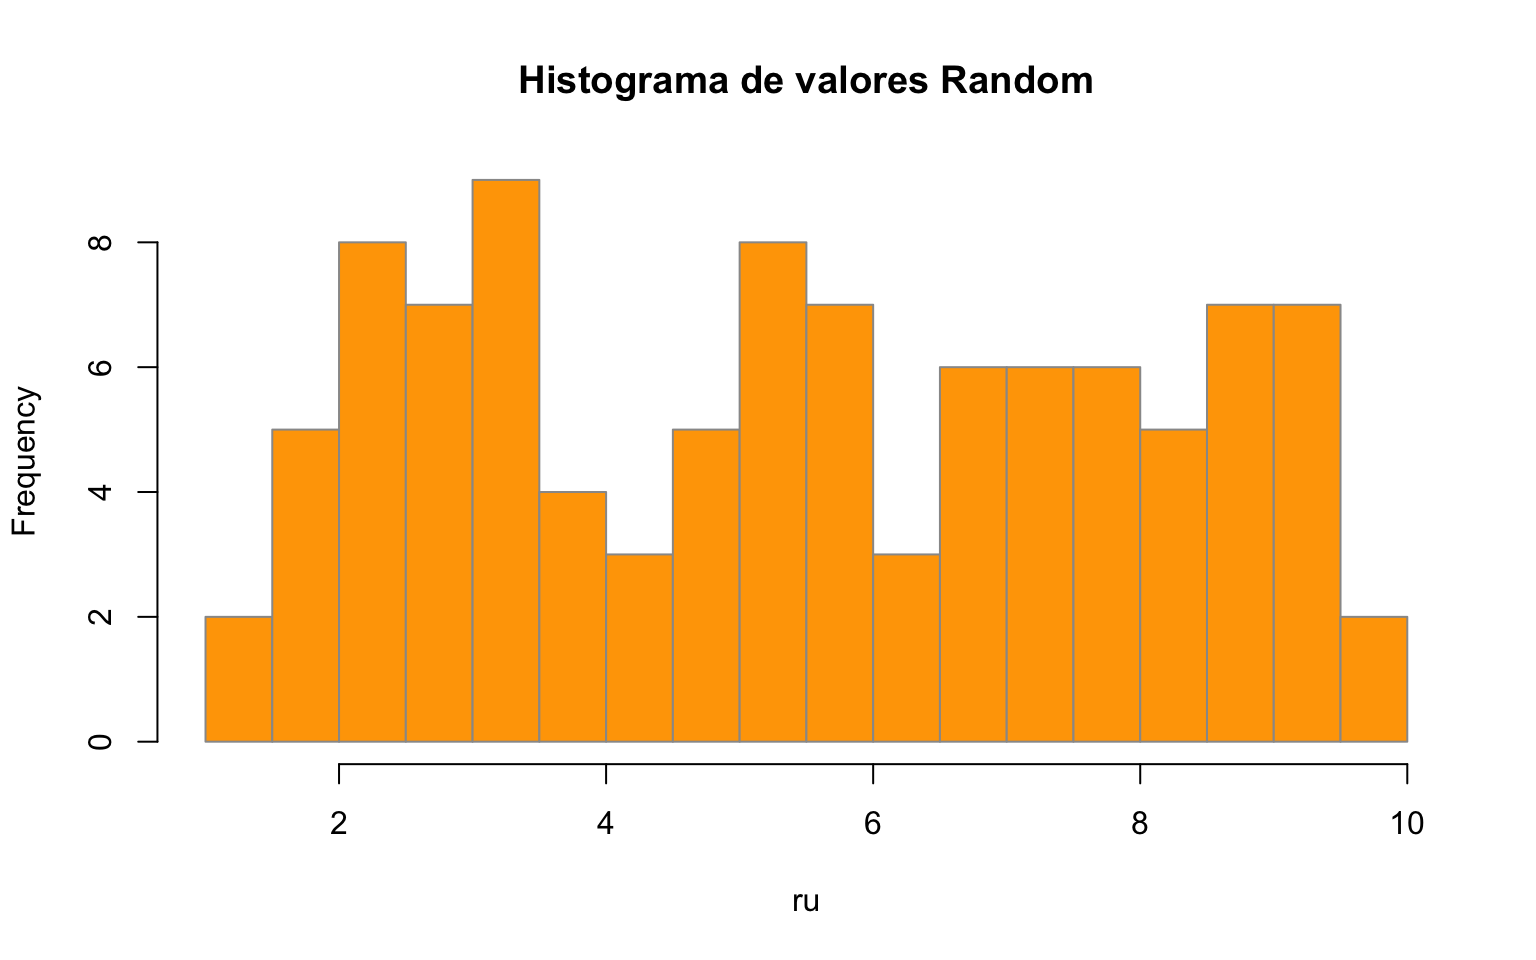
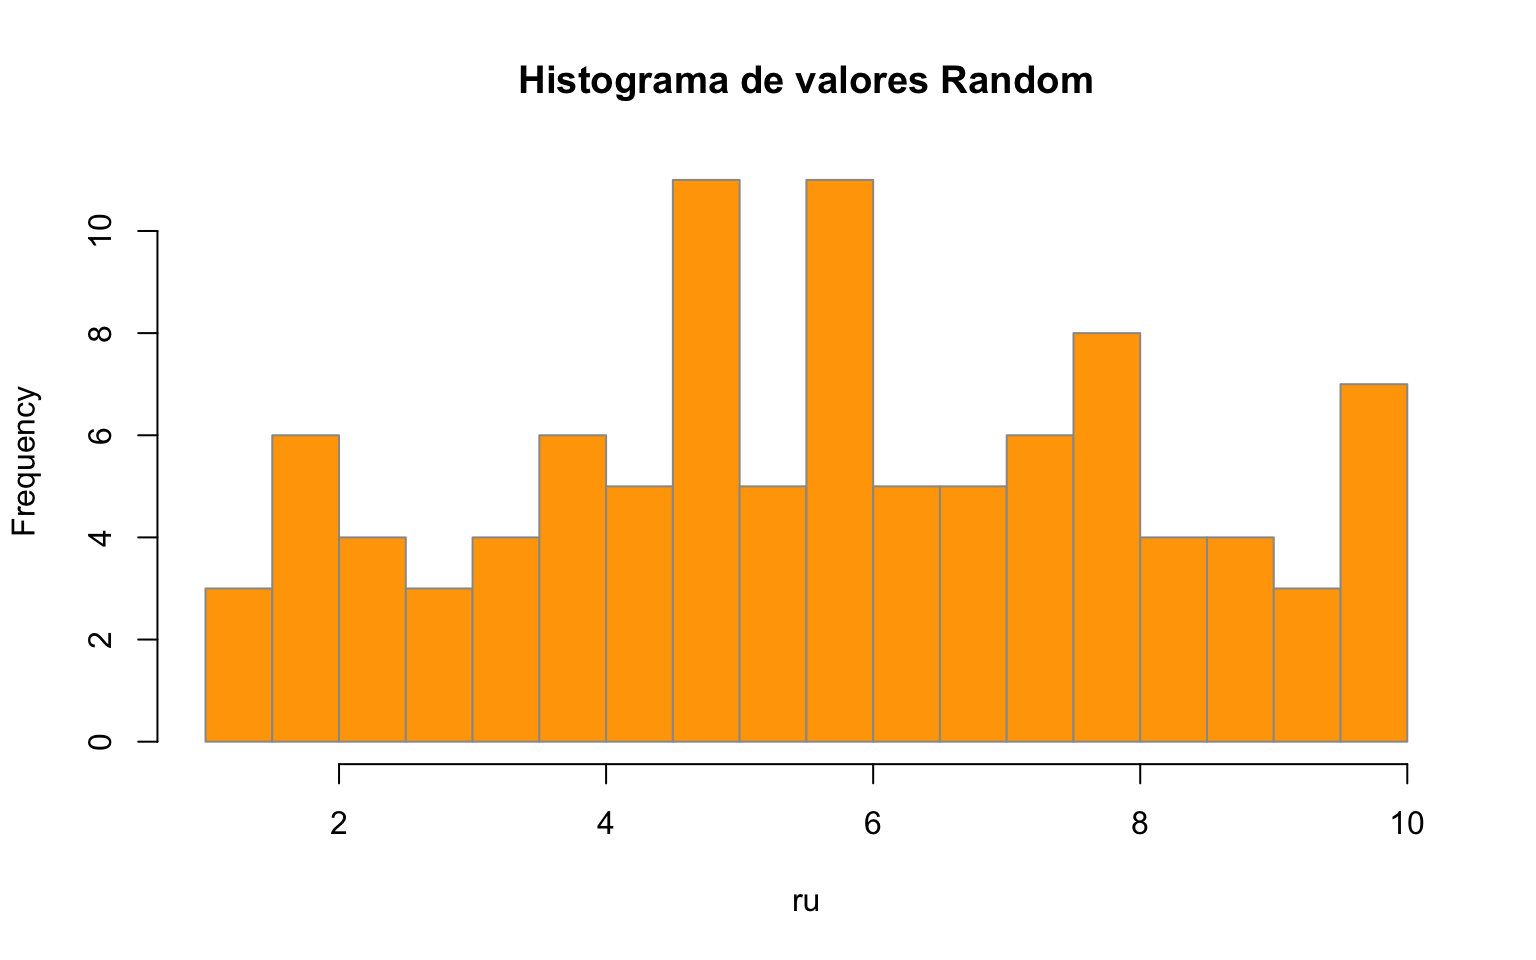
Built site for gh-pages

diff --git a/r_project.html b/r_project.html
@@ -559,19 +559,19 @@ code span.wa { color: #60a0b0; font-weight: bold; font-style: italic; } /* Warni
 <div class="sourceCode cell-code" id="cb11"><pre class="sourceCode r code-with-copy"><code class="sourceCode r"><span id="cb11-1"><a href="#cb11-1" aria-hidden="true" tabindex="-1"></a>ru <span class="ot">&lt;-</span> <span class="fu">runif</span>(<span class="at">n =</span> <span class="dv">100</span>, <span class="at">min =</span> <span class="dv">1</span>, <span class="at">max =</span> <span class="dv">10</span>)</span>
 <span id="cb11-2"><a href="#cb11-2" aria-hidden="true" tabindex="-1"></a>ru</span></code><button title="Copy to Clipboard" class="code-copy-button"><i class="bi"></i></button></pre></div>
 <div class="cell-output cell-output-stdout">
-<pre><code>  [1] 2.734509 8.890751 9.946318 4.705708 6.941183 4.822620 7.500175 7.867557
-  [9] 7.341138 6.696716 7.064383 9.444162 4.603730 3.185298 6.828166 3.066906
- [17] 3.743531 8.510762 6.690119 9.232757 5.333774 4.649798 2.295700 3.265825
- [25] 1.542848 9.505277 1.015939 2.634020 5.185485 8.341810 2.893615 2.738504
- [33] 7.015717 1.728331 9.204278 9.305483 3.117092 5.027090 4.464247 8.823425
- [41] 2.091900 3.242419 2.175398 8.046107 5.625957 7.875466 2.997257 5.064028
- [49] 1.700190 8.819081 7.559677 9.306359 3.160376 1.432525 2.954868 2.415233
- [57] 7.858856 6.267120 3.966494 2.389541 8.453869 3.152249 7.152445 6.589068
- [65] 8.629946 8.545178 3.085000 4.458933 9.277898 5.665957 6.078743 2.180593
- [73] 8.199088 6.419430 8.180573 5.378118 5.223127 1.627984 5.892186 5.878844
- [81] 5.998031 5.043063 7.400317 3.568636 5.739560 3.658262 7.010542 7.905490
- [89] 2.911050 4.222335 6.986220 8.630364 2.064318 5.256333 3.071967 4.570265
- [97] 9.137086 1.612622 5.770856 2.451970</code></pre>
+<pre><code>  [1] 8.811635 5.865857 7.391644 6.067594 8.743696 2.647396 4.774295 5.429959
+  [9] 2.377287 9.616988 6.926653 5.797022 6.847562 4.887095 2.296216 5.664446
+ [17] 3.693184 1.481783 1.782443 4.875136 4.071239 7.915234 5.359341 7.759767
+ [25] 2.491318 3.968461 1.539798 3.454462 9.794368 5.666611 6.746138 7.188359
+ [33] 1.009968 5.630455 4.734392 6.478983 9.304819 1.250389 4.830220 7.835755
+ [41] 4.578957 8.292712 7.661948 3.560957 4.669029 5.583798 9.164878 8.117981
+ [49] 4.156663 6.518603 8.165289 5.485007 7.260296 6.108508 5.710161 7.110792
+ [57] 4.972461 5.511515 4.167841 4.565459 8.803359 1.824712 7.328237 7.449306
+ [65] 2.143007 5.991730 5.987725 2.529145 2.906488 3.289845 5.300402 3.542934
+ [73] 9.636725 3.800062 5.258058 8.530075 5.807219 1.750988 8.122528 6.306378
+ [81] 9.309585 9.962509 3.290576 6.283876 7.987018 9.639122 1.919056 4.855011
+ [89] 7.955667 9.883614 4.880729 9.768686 7.781624 4.147312 6.825776 7.554872
+ [97] 4.043835 1.530621 3.836080 3.219795</code></pre>
 </div>
 </div>
 <div class="cell" data-layout-align="center">
@@ -590,7 +590,7 @@ code span.wa { color: #60a0b0; font-weight: bold; font-style: italic; } /* Warni
 <div class="cell">
 <div class="sourceCode cell-code" id="cb14"><pre class="sourceCode r code-with-copy"><code class="sourceCode r"><span id="cb14-1"><a href="#cb14-1" aria-hidden="true" tabindex="-1"></a><span class="fu">sample.int</span>(<span class="at">n =</span> <span class="dv">6</span>, <span class="at">size =</span> <span class="dv">10</span>, <span class="at">replace =</span> T)</span></code><button title="Copy to Clipboard" class="code-copy-button"><i class="bi"></i></button></pre></div>
 <div class="cell-output cell-output-stdout">
-<pre><code> [1] 6 6 6 2 2 3 6 2 1 3</code></pre>
+<pre><code> [1] 5 2 3 5 6 5 5 4 5 5</code></pre>
 </div>
 </div>
 </section>
@@ -1376,10 +1376,10 @@ h=<em>?</em>, a = 3, b = 4</p>
 <span id="cb152-6"><a href="#cb152-6" aria-hidden="true" tabindex="-1"></a>  <span class="fu">print</span>(promedio)</span>
 <span id="cb152-7"><a href="#cb152-7" aria-hidden="true" tabindex="-1"></a>}</span></code><button title="Copy to Clipboard" class="code-copy-button"><i class="bi"></i></button></pre></div>
 <div class="cell-output cell-output-stdout">
-<pre><code>[1] 0.849284
-[1] -0.5993989
-[1] -0.3552176
-[1] 0.2122577</code></pre>
+<pre><code>[1] 0.04650901
+[1] 0.145887
+[1] 0.2658215
+[1] 0.1797405</code></pre>
 </div>
 </div>
 </section>

diff --git a/datos.html b/datos.html
@@ -202,7 +202,10 @@ code span.wa { color: #60a0b0; font-weight: bold; font-style: italic; } /* Warni
    
   <ul>
   <li><a href="#cargar-librerías-y-funciones" id="toc-cargar-librerías-y-funciones" class="nav-link active" data-scroll-target="#cargar-librerías-y-funciones"><span class="toc-section-number">1.1</span>  Cargar Librerías y Funciones</a></li>
-  <li><a href="#lectura-de-datos" id="toc-lectura-de-datos" class="nav-link" data-scroll-target="#lectura-de-datos"><span class="toc-section-number">1.2</span>  Lectura de Datos</a></li>
+  <li><a href="#lectura-de-datos" id="toc-lectura-de-datos" class="nav-link" data-scroll-target="#lectura-de-datos"><span class="toc-section-number">1.2</span>  Lectura de Datos</a>
+  <ul class="collapse">
+  <li><a href="#unificar-bases" id="toc-unificar-bases" class="nav-link" data-scroll-target="#unificar-bases"><span class="toc-section-number">1.2.1</span>  Unificar Bases</a></li>
+  </ul></li>
   </ul>
 </nav>
     </div>
@@ -319,8 +322,20 @@ Projected CRS: WGS 84 / UTM zone 19S
 </div>
 </div>
 <p>Se puede observar que corresponde a <code>1.418.435</code> de casos policiales con información espacial tipo punto (<a href="https://r-spatial.github.io/sf/articles/sf1.html">Simple Features for R</a>), además información temporal y divisiones administrativas.</p>
+<section id="unificar-bases" class="level3" data-number="1.2.1">
+<h3 data-number="1.2.1" class="anchored" data-anchor-id="unificar-bases"><span class="header-section-number">1.2.1</span> Unificar Bases</h3>
+<p>Las bases están separadas por año por lo tanto se ban unificar para obtener un solo archivo, lo que facilitarà hacer todas las transformaciones. Revisar las bases a unificar:</p>
+<div class="cell">
+<div class="sourceCode cell-code" id="cb5"><pre class="sourceCode r code-with-copy"><code class="sourceCode r"><span id="cb5-1"><a href="#cb5-1" aria-hidden="true" tabindex="-1"></a>delitos_anuales <span class="ot">&lt;-</span>  <span class="fu">list.files</span>(<span class="st">"data/delitos/raw/"</span>)</span>
+<span id="cb5-2"><a href="#cb5-2" aria-hidden="true" tabindex="-1"></a>delitos_anuales</span></code><button title="Copy to Clipboard" class="code-copy-button"><i class="bi"></i></button></pre></div>
+<div class="cell-output cell-output-stdout">
+<pre><code>[1] "Casos_2017.rds" "Casos_2018.rds" "Casos_2019.rds" "Casos_2020.rds"
+[5] "Casos_2021.rds" "Casos_2022.rds"</code></pre>
+</div>
+</div>
 
 
+</section>
 </section>
 
 </main> <!-- /main -->
